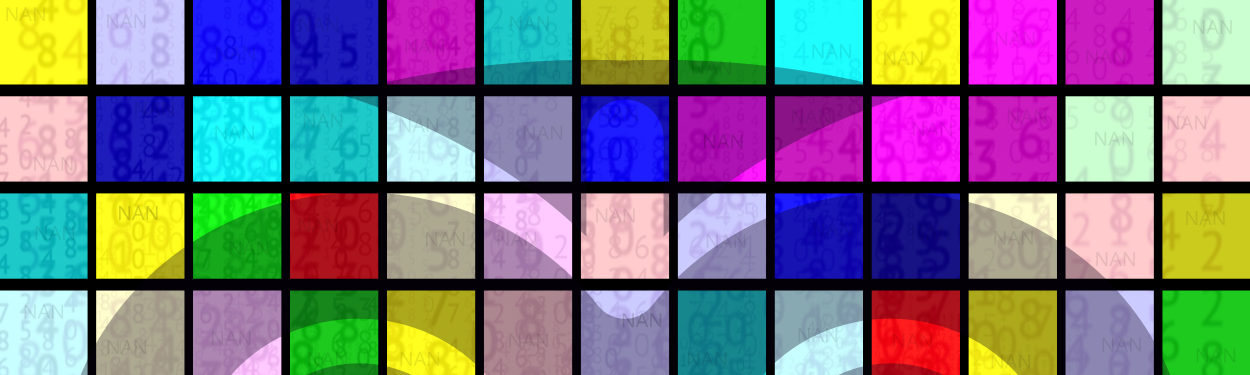
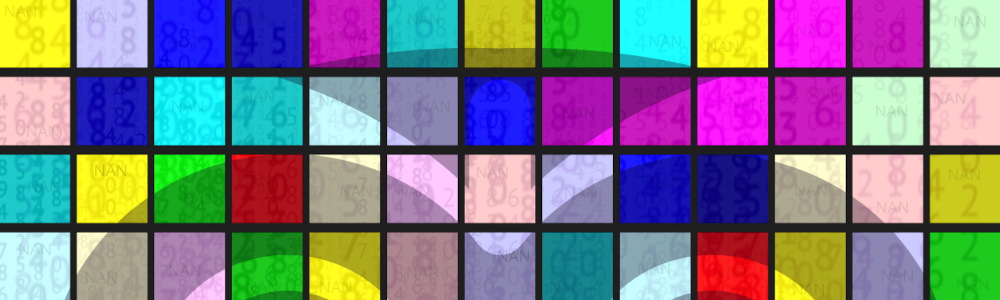
prototype development

Changed region(s): [[0.0, 0.0, 1.0, 1.0]]

diff --git a/styles.css b/styles.css
@@ -25,22 +25,22 @@
 }
 
 body {
-  background: url("assets/back.png");
+  background: url("assets/background.jpg");
   font-family: "Roboto", sans-serif;
   font-size: 18px;
   color: #180027;
-  padding: 30px;
+  padding: 0 30px;
 }
 
 @media only screen and (max-width: 840px) {
   body {
-      padding: 20px;
+      padding: 0 20px;
   }
 }
 
 @media only screen and (max-width: 640px) {
   body {
-      padding: 10px;
+      padding: 0 10px;
   }
 }
 
@@ -56,9 +56,9 @@ h1, h2, h3, h4, h5 {
 
 #view {
   margin: auto;
-  max-width: 1260px;
-  border: 4px solid #454545;
-  border-radius: 9px;
+  max-width: 1000px;
+  border-left: 4px solid #454545;
+  border-right: 4px solid #454545;
   overflow: hidden;
 }
 
@@ -72,7 +72,7 @@ h1, h2, h3, h4, h5 {
   background-repeat: no-repeat;
   background-size: cover;
   background-position: center;
-  min-height: 375px;
+  min-height: 300px;
 }
 
 #top-line {
@@ -126,10 +126,10 @@ h1, h2, h3, h4, h5 {
 }
 
 #slogan div {
-  padding: 30px;
+  padding: 18px;
   background-color: #ffffffdd;
   font-family: "Euphorigenic", serif;
-  font-size: 36px;
+  font-size: 27px;
   text-align: center;
 }
 
@@ -139,12 +139,12 @@ h1, h2, h3, h4, h5 {
 }
 
 .line-body {
-  background-color: #eeeeee;
+  background-color: #ffefef;
   padding: 30px;
 }
 
 .line-row {
-  background-color: #eeeeee;
+  background-color: #ffefef;
   padding: 30px;
   display: flex;
   flex-direction: row;

diff --git a/index.html b/index.html
@@ -24,7 +24,9 @@
         </div>
       </div>
       <div class="line-split"></div>
-      <div class="line-row"></div>
+      <div class="line-row">
+        <br /><br /><br /><br /><br /><br /><br /><br /><br /><br /><br /><br /><br /><br /><br /><br /><br /><br /><br /><br /><br /><br /><br /><br /><br /><br /><br /><br /><br /><br /><br /><br /><br /><br /><br /><br /><br /><br /><br />
+      </div>
     </div>
   </body>
 </html>
